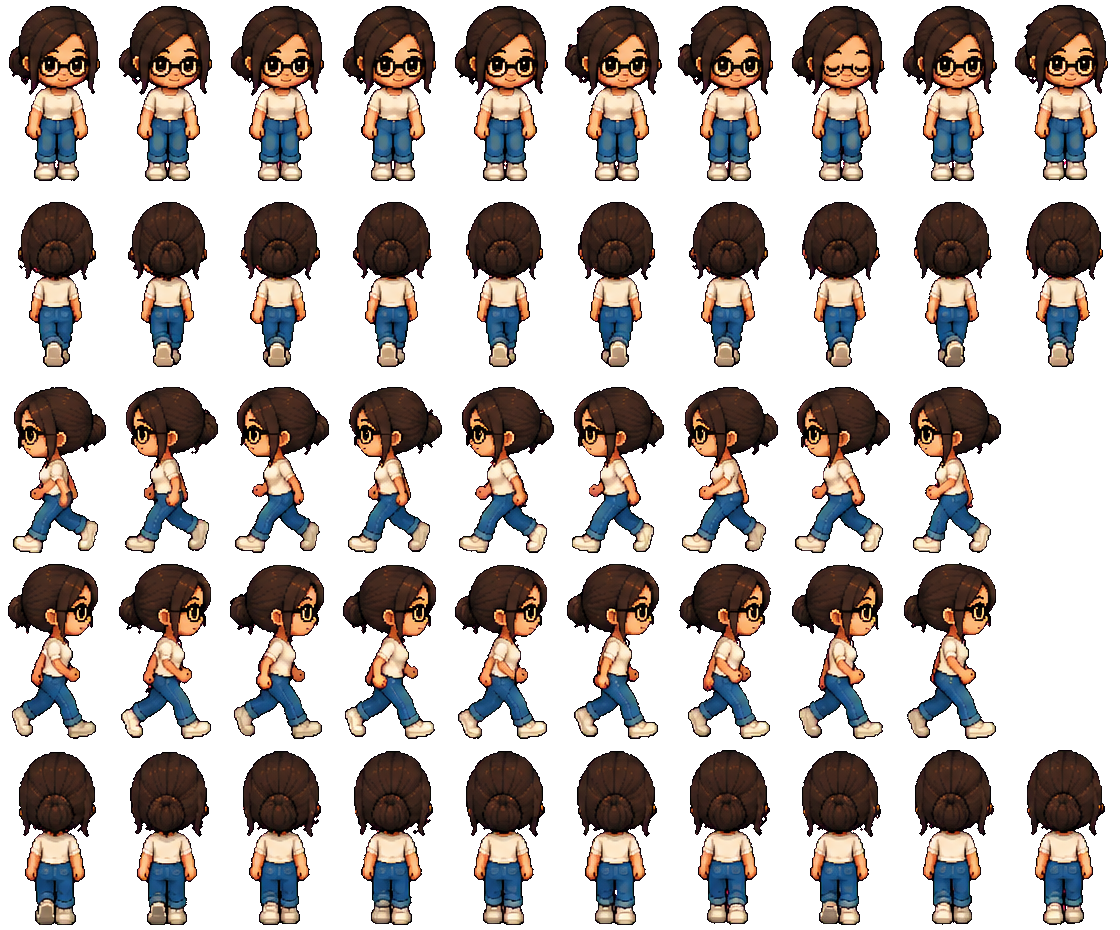
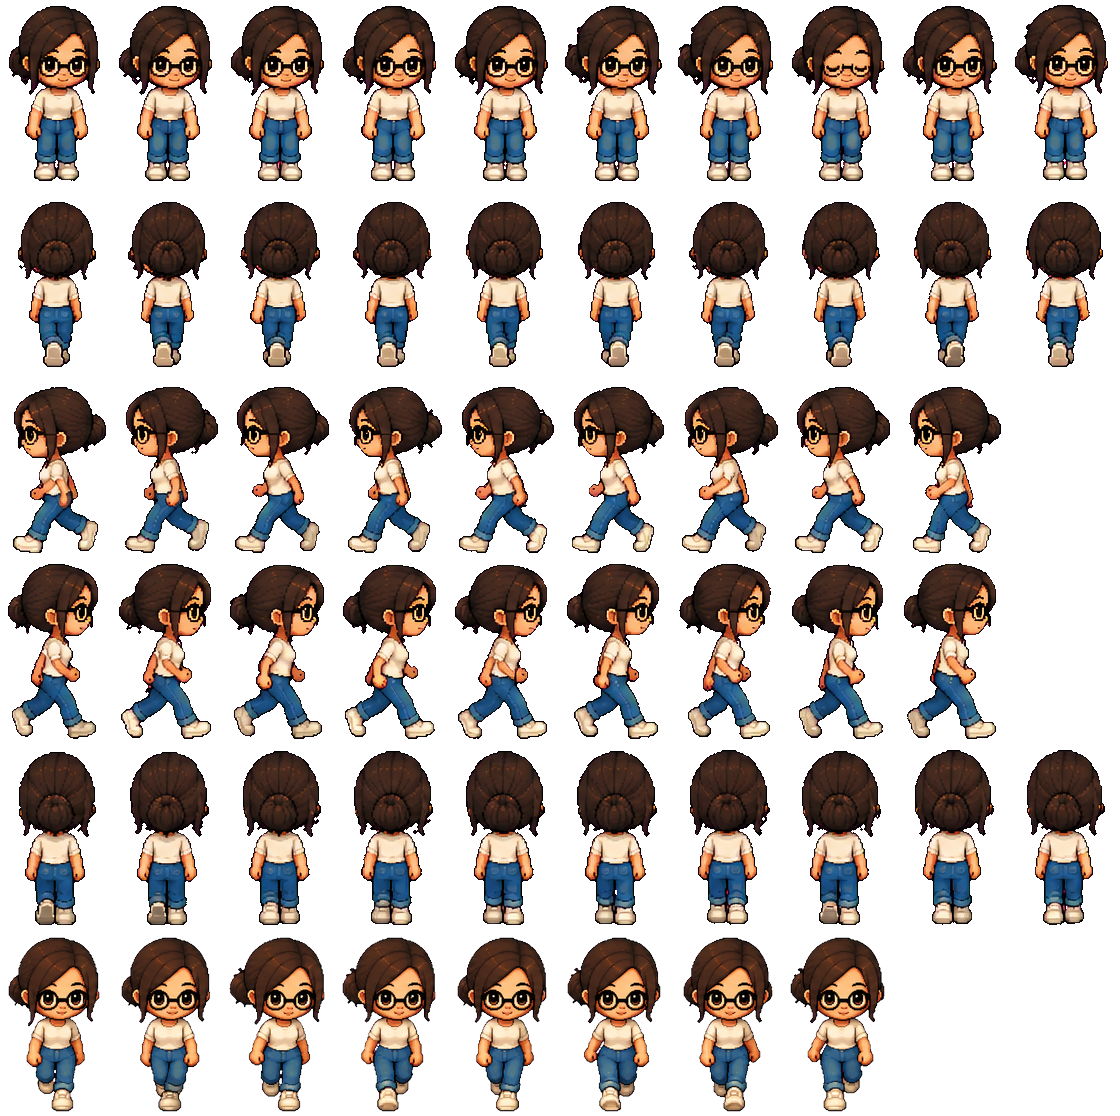
Marche de face de Thomas et Cécile (8 images, rangée dédiée)
Claude-Session: https://claude.ai/code/session_01SuFQQKxBnVjgF8gokGKhi5

diff --git a/aventure/js/room.js b/aventure/js/room.js
@@ -214,8 +214,10 @@
       const idleOn = d.idle && d.idle.fps && (!d.idle.faces || d.idle.faces.indexOf(face) >= 0);
       if (A.moving && d.walk) {
         const w = d.walk, st = A.t * w.fps / 1000, si = Math.floor(st);
-        f = si % n;
-        if ((w.flipAlt || []).indexOf(face) >= 0) { flip = (si % 2) === 1; bob = (w.bob || 0) * Math.sin(Math.PI * (st - si)); }
+        const wr = d.walkRows && d.walkRows[face];          // rangée de marche dédiée à cette direction
+        if (wr) { row = d.rows[wr]; f = si % ((d.counts && d.counts[wr]) || cols); }
+        else f = si % n;
+        if (!wr && (w.flipAlt || []).indexOf(face) >= 0) { flip = (si % 2) === 1; bob = (w.bob || 0) * Math.sin(Math.PI * (st - si)); }
       } else if (idleOn) {
         f = Math.floor(A.t * d.idle.fps / 1000) % n;
       } else if (d.stand && d.stand[face]) {

diff --git a/aventure/LISEZ-MOI.md b/aventure/LISEZ-MOI.md
@@ -136,6 +136,7 @@ Thomas (`thomas_01`), Cécile (`cecile_01`) et TiChat (`tichat_01`) sont des per
 - `assets/characters/<nom>.png` : aperçu fixe, c'est ce que l'éditeur montre dans la palette.
 - `data/characters.json` : taille d'une case, rangées, nombre d'images par rangée (`counts`), vitesse de marche. Les clés sont celles des aperçus.
 - Dans la pièce : un PNJ s'écrit `{"id": "thomas", "key": "thomas_01", "face": "down", …}` (`face` : `down`, `up`, `left`, `right`). Il se tourne vers le joueur quand on lui parle. Un personnage posé depuis l'éditeur a un réglage « Regard ».
+- Marche dédiée : `"walkRows": {"down": "walk_down"}` utilise une rangée de la feuille propre à une direction (marche de face de Thomas et Cécile) ; sans cela, `flipAlt` alterne l'image et son miroir.
 - Pose d'arrêt et clignement : `"stand"` (image affichée à l'arrêt, par direction) et `"idle": {"fps": 2, "faces": ["down"]}` (images qui défilent à l'arrêt, ici le clignement de Cécile de face).
 - Promenade : `"wander": 80` (rayon en pixels) fait marcher un personnage autour de sa place (TiChat). Il s'arrête quand le joueur s'approche ou lui parle ; `"wanderSpeed"` règle sa vitesse. Mets `"solid": false` pour qu'il ne bloque pas le joueur.
 - Le joueur : pour lui donner un personnage animé, mets `"key": "thomas_01"` (ou une autre clé de `characters.json`) dans `"player"`. Sans clé, il reste une silhouette provisoire.
